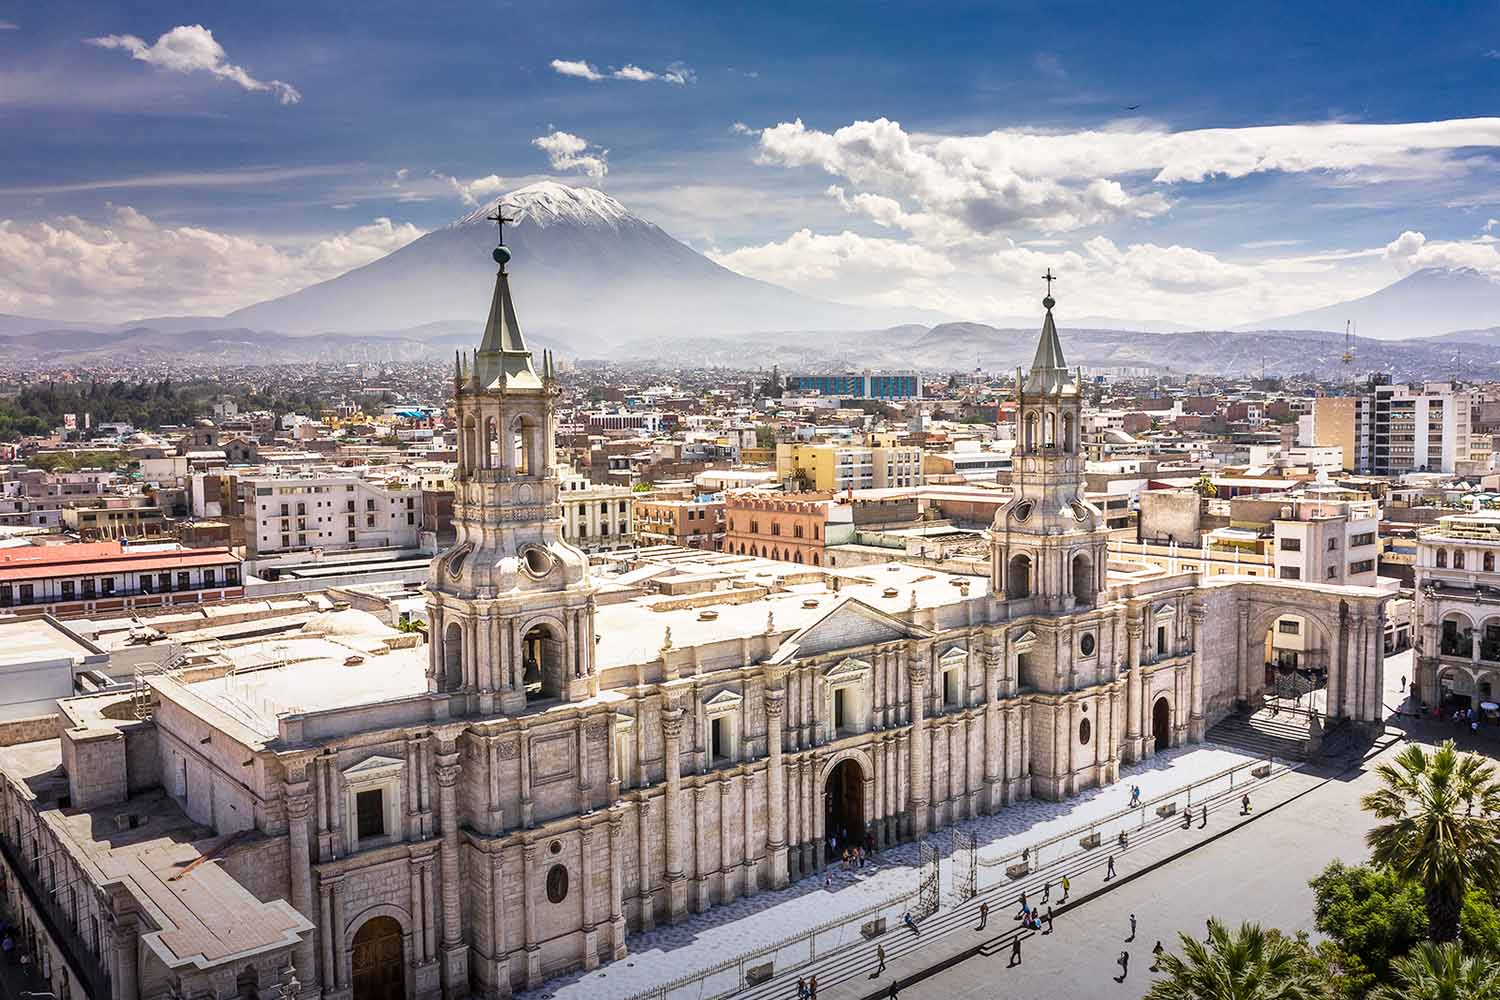
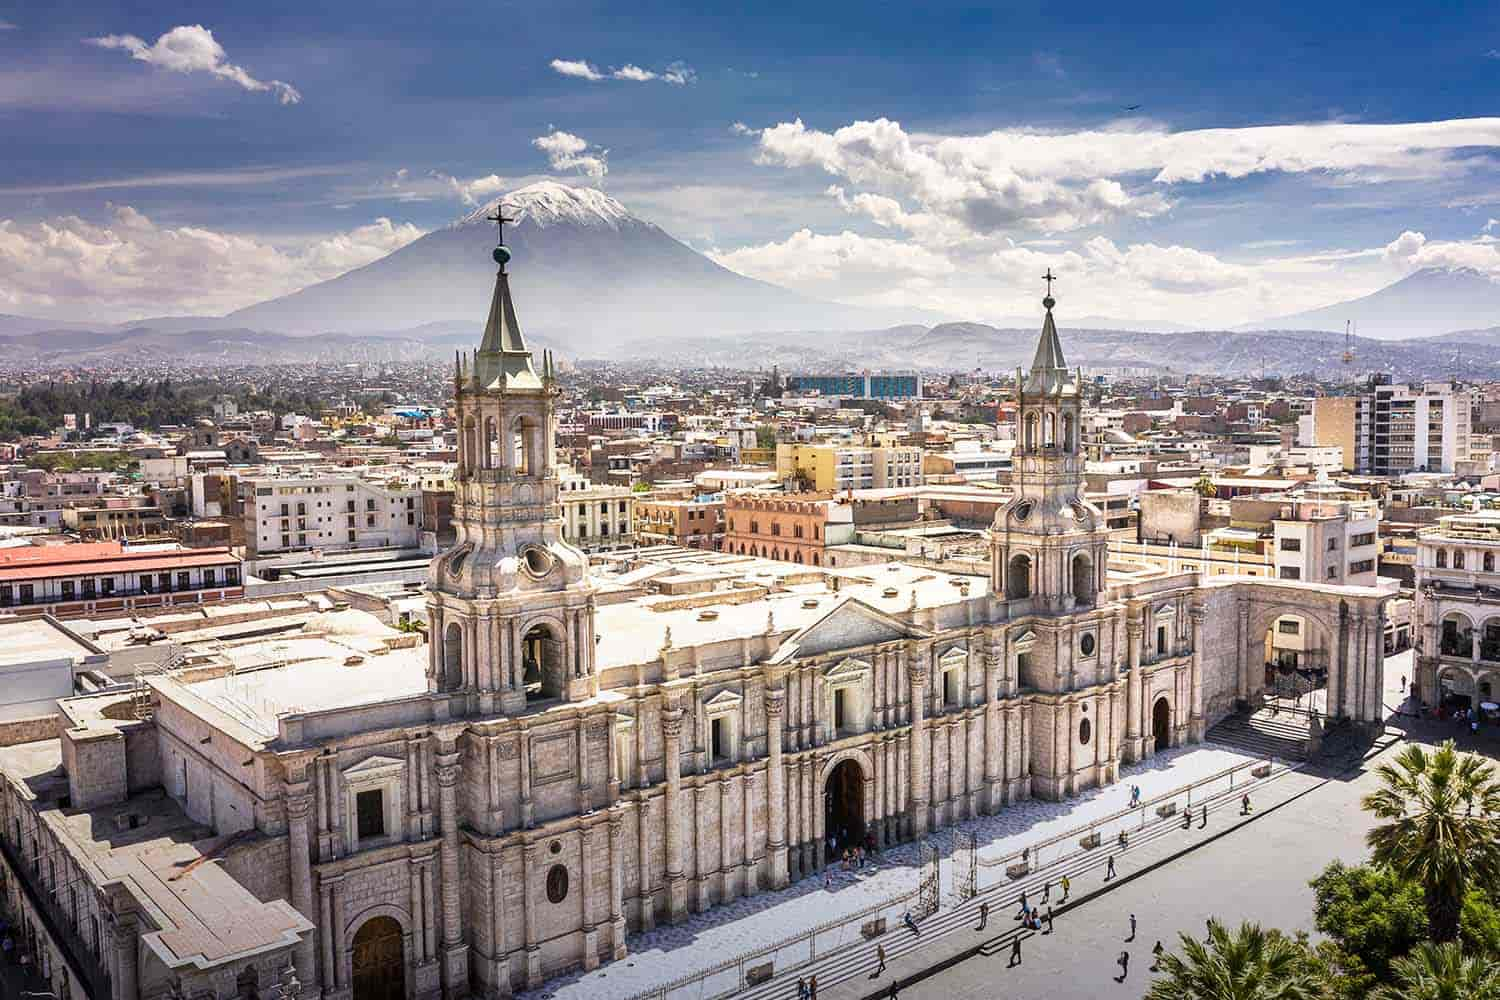
fixing week01

diff --git a/index.html b/index.html
@@ -24,7 +24,7 @@
     <header>
         <span id="course-title">WDD 131 – Dynamic Web Fundamentals</span>
         <nav>
-            <a href="[Your LinkedIn URL]" target="_blank">LinkedIn</a>
+            <a href="https://www.linkedin.com/in/galo-salas/" target="_blank">LinkedIn</a>
             <a href="https://byupw.instructure.com/" target="_blank">Canvas</a>
             <a href="https://www.churchofjesuschrist.org/study/scriptures/bofm/1-ne/3?lang=eng&id=p7#p7"
                 target="_blank">Scripture</a>